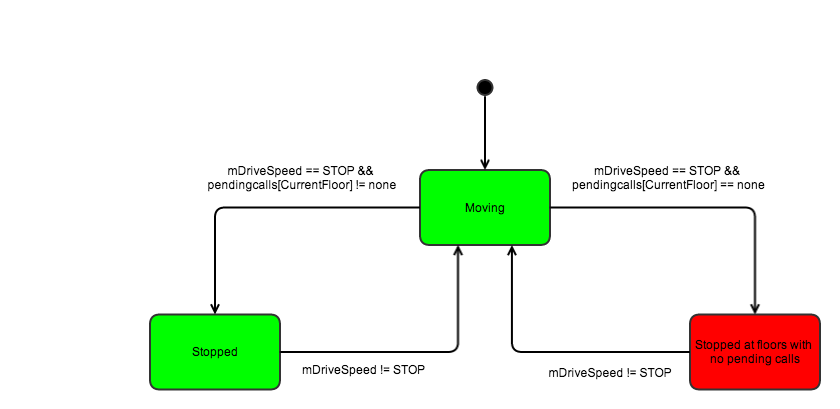
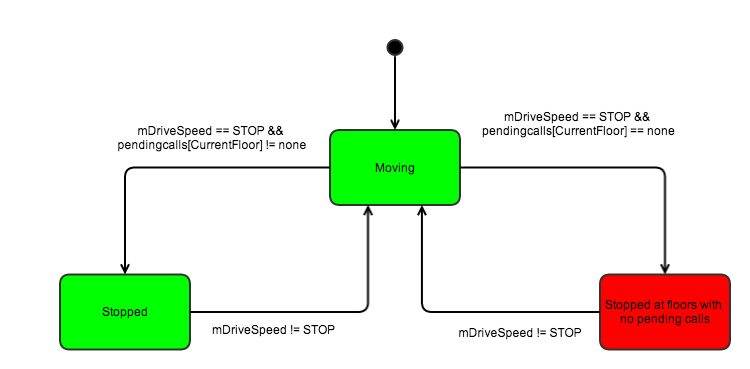
ys

Changed region(s): [[0.0613, 0.2981, 0.9813, 0.9539], [0.4907, 0.0894, 0.552, 0.1789], [0.552, 0.1789, 0.6133, 0.2385]]

diff --git a/portfolio/portfolio/verify/verfication.html b/portfolio/portfolio/verify/verfication.html
@@ -19,6 +19,17 @@ Verification<br>
 <h2>Verification Framework Description<br>
 </h2>
 Add description of verification approach here<br>
+For high level requirement R-T6, the Runtime Monitor should check whether the car 
+stops at floors that have no pending calls. The monitor shall throw a warning every 
+time the motor was commanded to stop while there are not pending calls at CurrentFloor. 
+The statechart for high level requirement R-T6 is: <br>
+<div style="text-align: center;">
+		<a href="R-T6-statechart.png"><img
+			alt="R-T6-statechart.png"
+			src="R-T6-statechart.png"
+			style="border: 0px solid; width: 750px; height: 369px;"></a><br>
+</div>
+
 <br>
 <h2>Verification Instructions</h2>
 <br>
